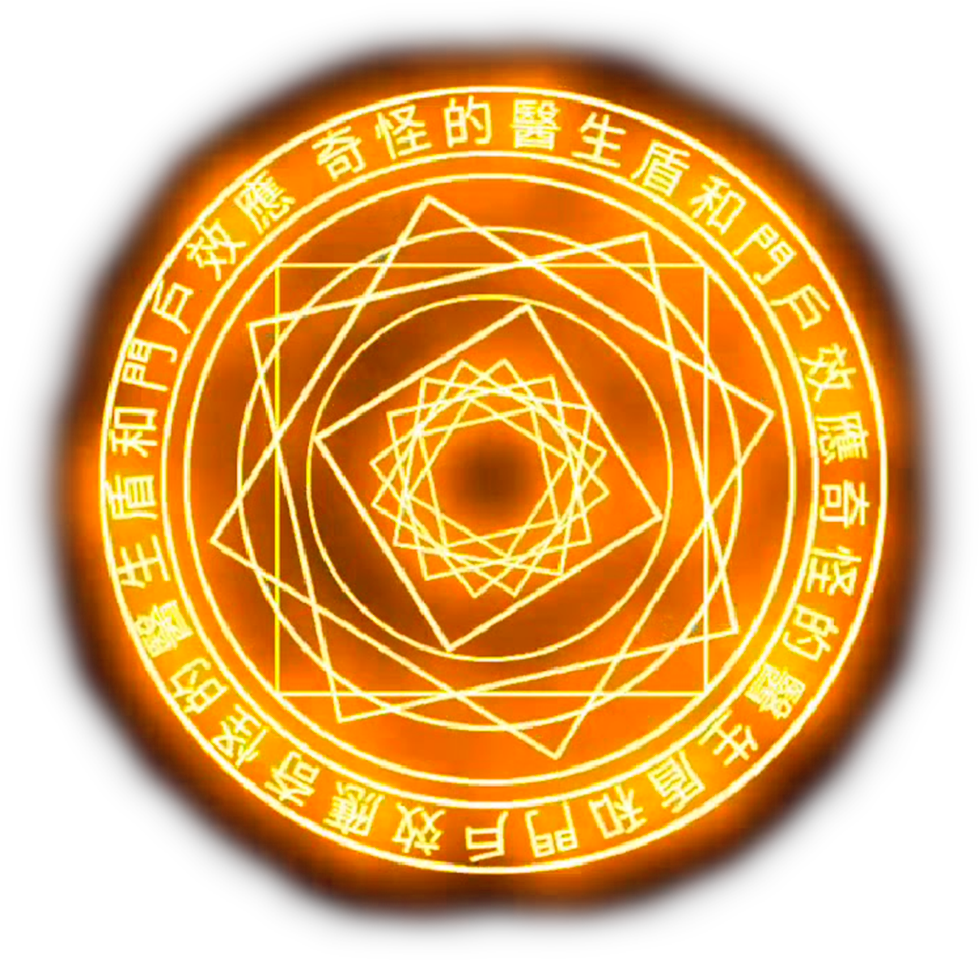
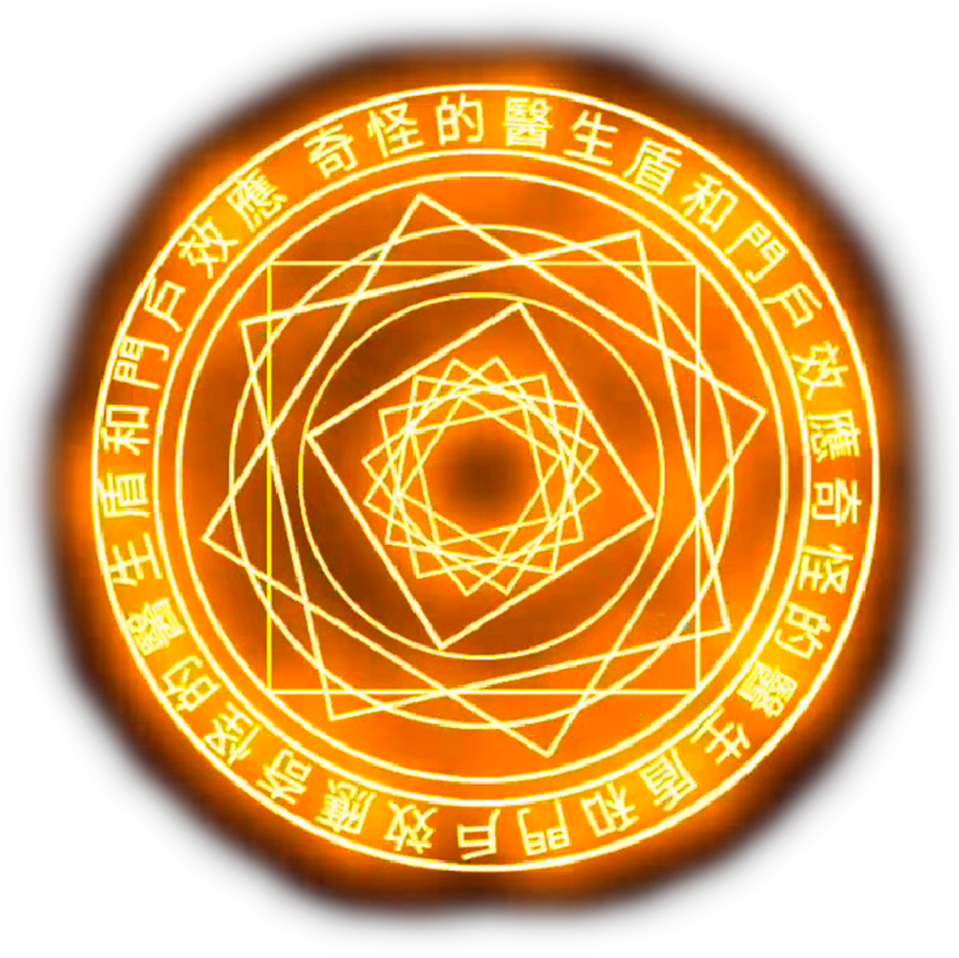
mesclando images e melhorando animacao

diff --git a/assets/css/animacao-personalizada.css b/assets/css/animacao-personalizada.css
@@ -1,14 +1,14 @@
 
 .rotacao{
-    animation: rotacao 10s ease-in-out infinite;
+    animation: rotacao 10s ease-in-out infinite alternate;
 }
 
 @keyframes rotacao{
     0%{
-        transform: rotate(0deg);
+        transform: rotate(0deg) scale(1);
     }
     100%{
-        transform: rotate(360deg);
+        transform: rotate(360deg) scale(1.5);
     }
 }
 

diff --git a/assets/css/styles.css b/assets/css/styles.css
@@ -13,13 +13,14 @@
     height: 600px;
     max-width: 900px;
     min-width: 540px;
-    
+    mix-blend-mode: lighten;
 }
 
 .img-wanda{
     width: 100%;
     min-width: 400px;
     height: 600px;
+    mix-blend-mode: lighten;
 }
 
 .div-meio{
